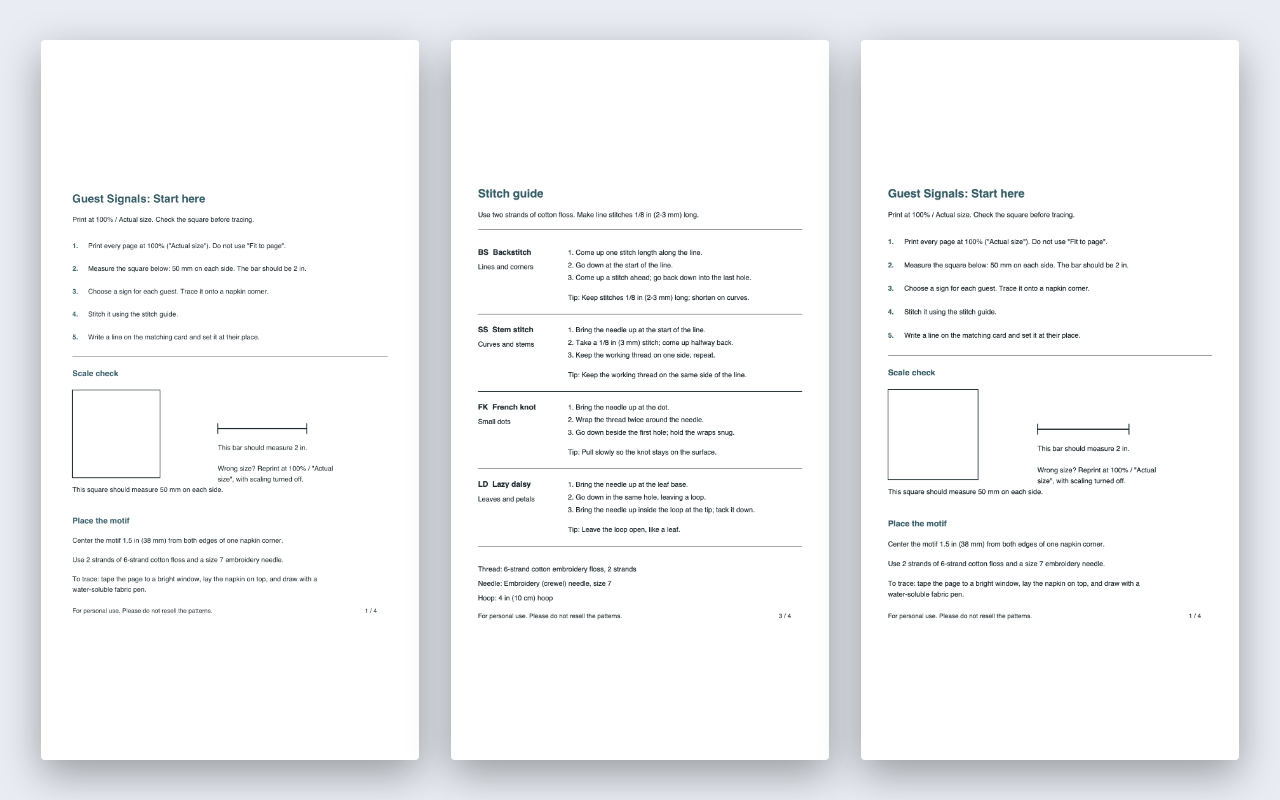
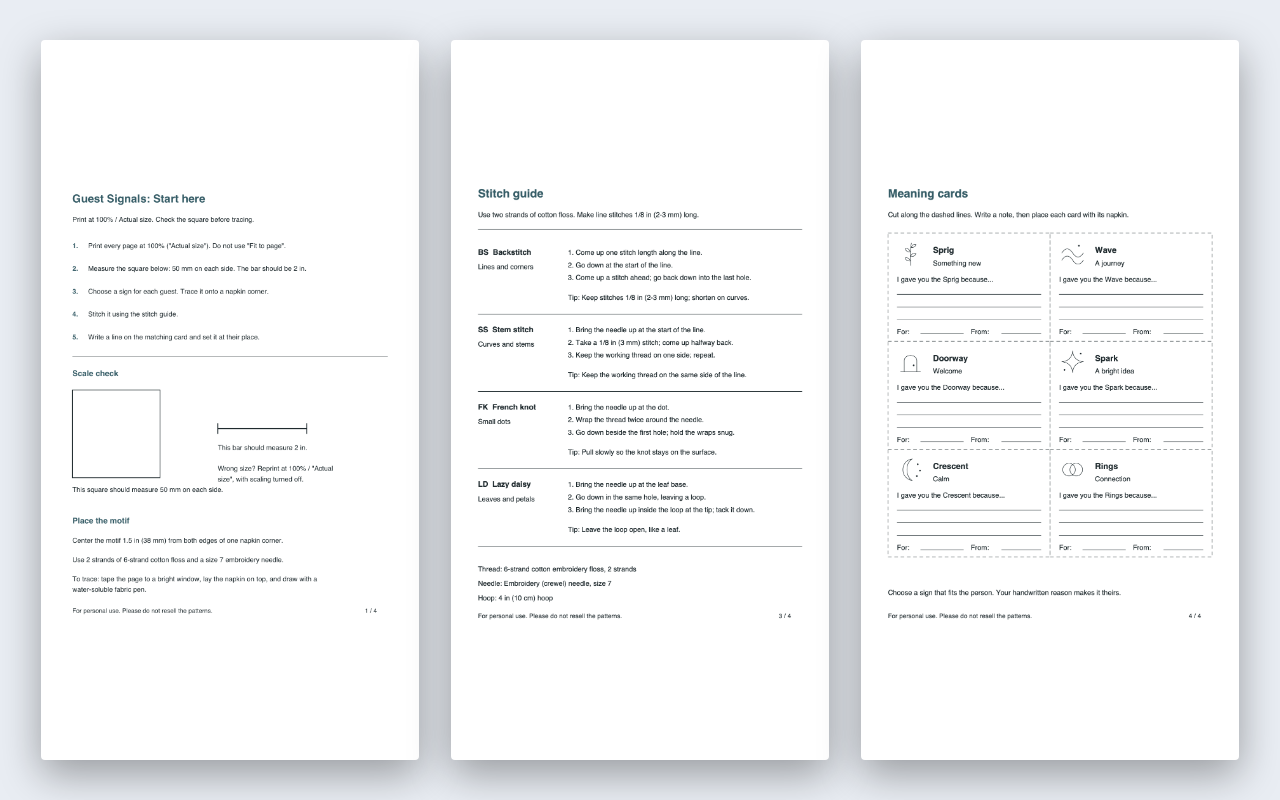
公開: Guest Signals

Changed region(s): [[0.6875, 0.2188, 0.9375, 0.75]]

diff --git a/guest-signals/style.css b/guest-signals/style.css
@@ -29,7 +29,10 @@ p{max-width:70ch;margin:0 0 1.1rem}
 .sample-art{background:var(--white);padding:1.4rem;border:1px solid var(--line);border-radius:8px}
 .sample-art img{display:block;width:100%;height:auto;max-height:240px;object-fit:contain}
 .sample-art p{margin:.8rem 0 0;font-size:1rem;text-align:center}
-.product-preview{display:block;max-width:100%;height:auto;margin:2rem auto 0}
+.page-strip{display:grid;grid-template-columns:repeat(3,minmax(0,1fr));gap:1rem;margin-top:2rem}
+.page-strip figure{margin:0;padding:.75rem;background:var(--white);border:1px solid var(--line);border-radius:8px}
+.page-strip img{display:block;width:100%;height:auto;border:1px solid var(--line)}
+.page-strip figcaption{margin-top:.5rem;font-size:.9rem;color:var(--muted)}
 .motifs{display:grid;grid-template-columns:repeat(3,1fr);gap:1rem;margin-top:2rem}
 .motif{background:var(--white);border:1px solid var(--line);border-radius:8px;padding:1.2rem;min-height:170px}
 .motif img{display:block;width:72px;height:72px;margin-bottom:.7rem}
@@ -62,6 +65,6 @@ footer{padding:2rem 0 3rem;background:#eaf0ec;font-size:1rem}
 .legal li{margin-bottom:.5rem}
 .legal table{min-width:0}
 .legal th{width:36%}
-@media(max-width:700px){body{font-size:17px}.wrap{width:min(100% - 2rem,1000px)}.hero-grid{grid-template-columns:1fr}.hero{padding:3.5rem 0}.motifs{grid-template-columns:repeat(2,1fr)}.preview-grid{grid-template-columns:1fr}.steps{grid-template-columns:1fr;gap:1.2rem}.actions .button{width:100%}.form-row input,.form-row button{width:100%}section{padding:2.8rem 0}}
+@media(max-width:700px){body{font-size:17px}.wrap{width:min(100% - 2rem,1000px)}.hero-grid{grid-template-columns:1fr}.hero{padding:3.5rem 0}.page-strip{grid-template-columns:1fr;max-width:390px}.motifs{grid-template-columns:repeat(2,1fr)}.preview-grid{grid-template-columns:1fr}.steps{grid-template-columns:1fr;gap:1.2rem}.actions .button{width:100%}.form-row input,.form-row button{width:100%}section{padding:2.8rem 0}}
 @media(max-width:420px){.motifs{grid-template-columns:1fr}.topbar{align-items:flex-start;flex-direction:column}}
 @media(prefers-reduced-motion:reduce){html{scroll-behavior:auto}}

diff --git a/guest-signals/index.html b/guest-signals/index.html
@@ -19,7 +19,11 @@
       <div class="actions"><a class="button" href="app/">Try one pattern free</a><a href="#included">See the six-pattern set · $6</a></div>
       <p class="small">No email needed — opens a printable page. The free Rings pattern includes a matching card, so you can finish one place setting before deciding on the full set.</p>
     </div><div class="sample-art"><img src="motifs/rings.svg" alt="Rings line pattern: two interlocking circles, meaning connection" width="240" height="240"><p>Rings · Connection</p></div></div>
-    <div class="wrap"><img class="product-preview" src="screens/guest-signals-desktop.png" alt="Guest Signals printable PDF samples showing the start pages and stitch guide" width="1280" height="800"></div></section>
+    <div class="wrap page-strip" role="group" aria-label="First three pages of the A4 download">
+      <figure><img src="screens/a4-start-page.png" alt="A4 PDF page 1: start instructions and print scale checks" width="595" height="842"><figcaption>Page 1 · Start and check scale</figcaption></figure>
+      <figure><img src="previews/patterns-page.png" alt="A4 PDF page 2: six line patterns and corner placement guides" width="595" height="842"><figcaption>Page 2 · Six patterns</figcaption></figure>
+      <figure><img src="screens/a4-stitch-guide.png" alt="A4 PDF page 3: backstitch, stem stitch, French knot, and lazy daisy directions" width="595" height="842"><figcaption>Page 3 · Stitch guide</figcaption></figure>
+    </div></section>
 
     <section id="patterns"><div class="wrap"><p class="eyebrow">Six guests, six meanings</p><h2>Choose the sign that fits each person.</h2><p>Each line drawing fits inside a 30 × 30 mm (about 1.2 × 1.2 in) box on the printed pattern sheet. The small motif on each card helps pair it with the right napkin.</p>
       <div class="motifs">
